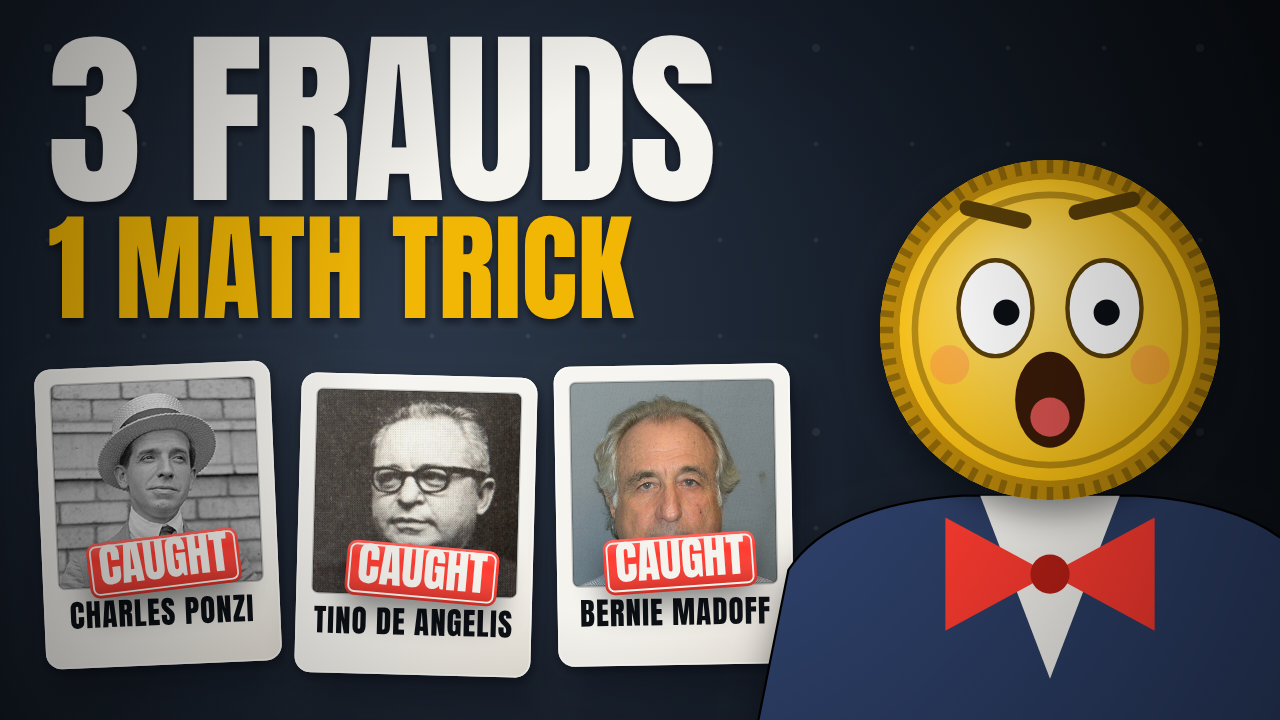
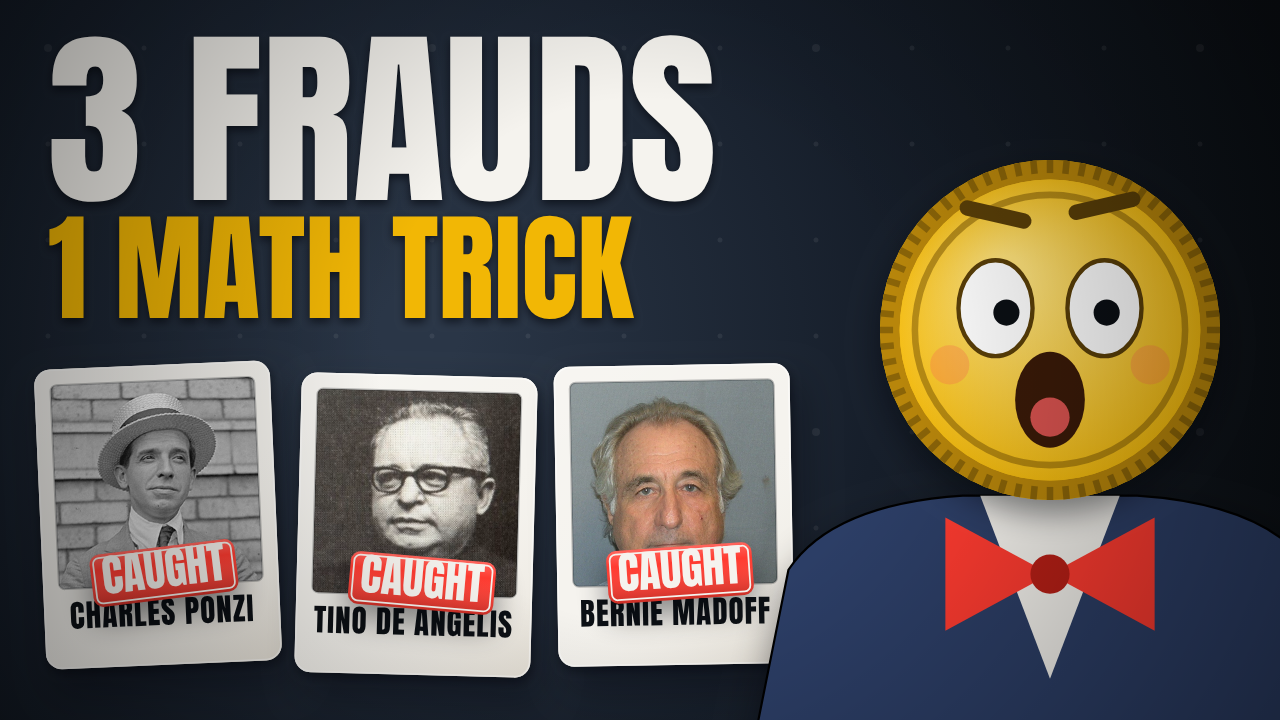
Work in progress: photo pass
Claude-Session: https://claude.ai/code/session_01JmfP7BKYW7KW1MupN5jo5m

Changed region(s): [[0.4688, 0.55, 0.5938, 0.8556], [0.25, 0.7333, 0.4062, 0.8556], [0.0625, 0.7333, 0.1875, 0.8556]]

diff --git a/videos/2026-11-25-impossible-number/thumbs/thumbs-v2.html b/videos/2026-11-25-impossible-number/thumbs/thumbs-v2.html
@@ -115,10 +115,10 @@ function D(imgs){const c=document.getElementById('d').getContext('2d');stage(c);
     const g=c.createLinearGradient(16,16,220,220);g.addColorStop(0,'rgba(255,255,255,.12)');g.addColorStop(1,'rgba(0,0,0,.12)');c.fillStyle=g;c.fillRect(16,16,204,204);c.restore();
     c.strokeStyle='rgba(11,15,20,.25)';c.lineWidth=2;c.beginPath();c.roundRect(16,16,204,204,6);c.stroke();
     c.fillStyle=INK;c.font='31px Anton';c.textAlign='center';c.letterSpacing='1px';c.fillText(name,w/2,260);c.letterSpacing='0px';
-    e();stamp(c,'CAUGHT',x+w/2+6,y+198,46,srot);};
+    e();stamp(c,'CAUGHT',x+w/2+6,y+208,44,srot);};
   pol(40,365,-2.5,imgs[0],[105,10,300],'CHARLES PONZI',-7);
   pol(298,375,1.5,imgs[1],[60,15,290],'TINO DE ANGELIS',5);
-  pol(556,365,-1,imgs[2],[95,5,790],'BERNIE MADOFF',-4);
+  pol(556,365,-1,imgs[2],[110,0,760],'BERNIE MADOFF',-4);
   character(c,1050,330,170);
   vignette(c);}
 (async()=>{await loadFonts();A();B();C();D(await Promise.all([P+'charles-ponzi/2.jpg',P+'tino-de-angelis/1.jpg',P+'bernie-madoff/2.jpg'].map(loadImg)));window.READY=true;})();
